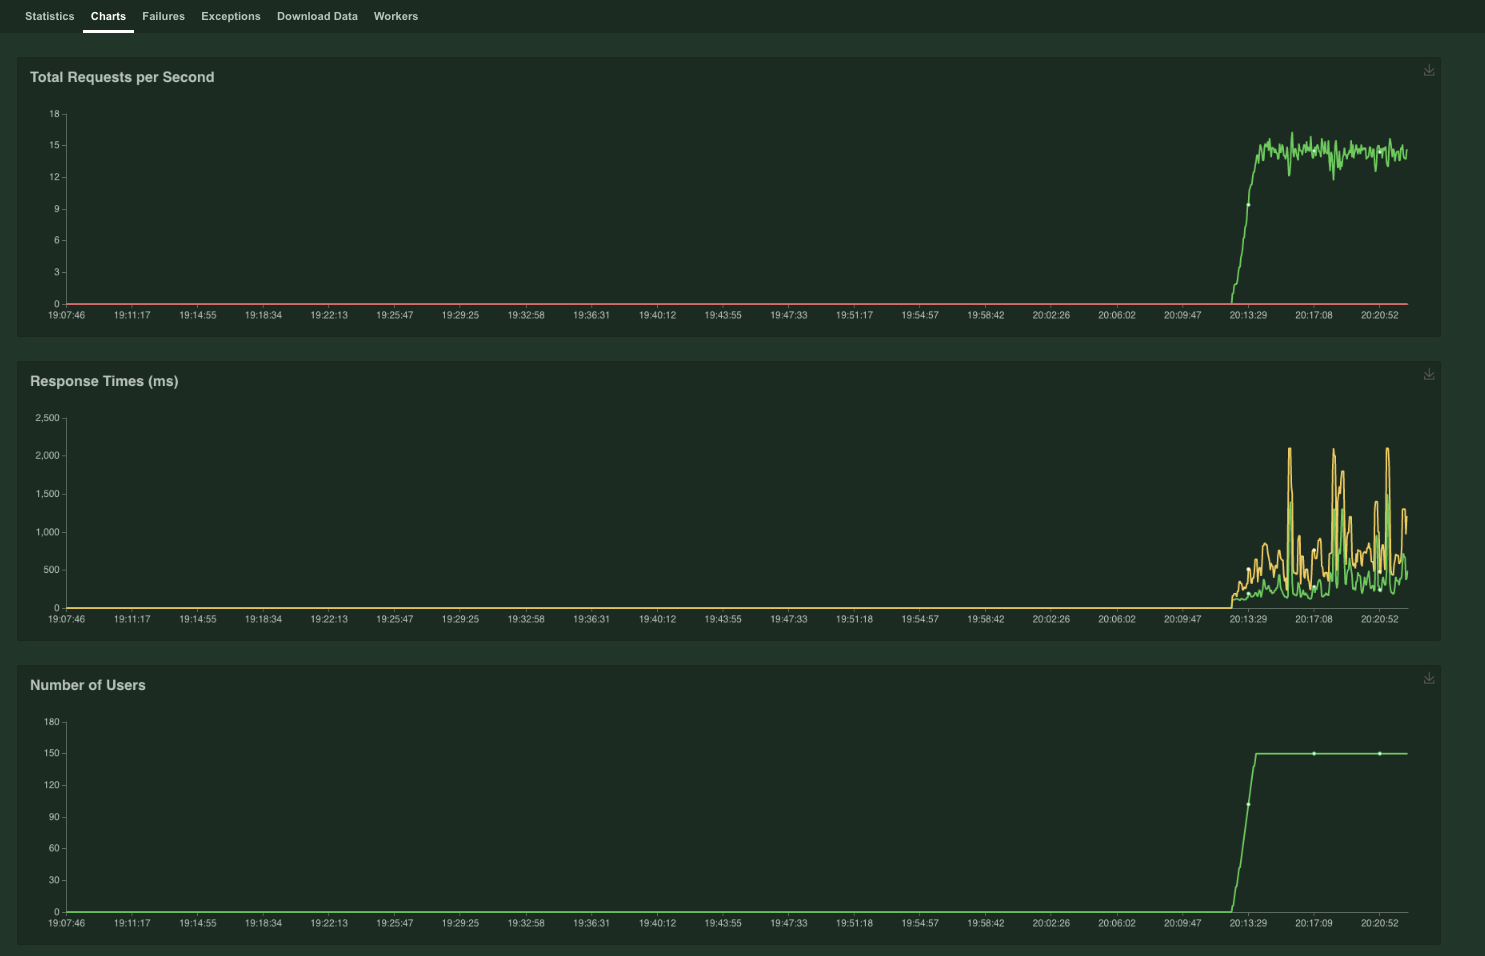
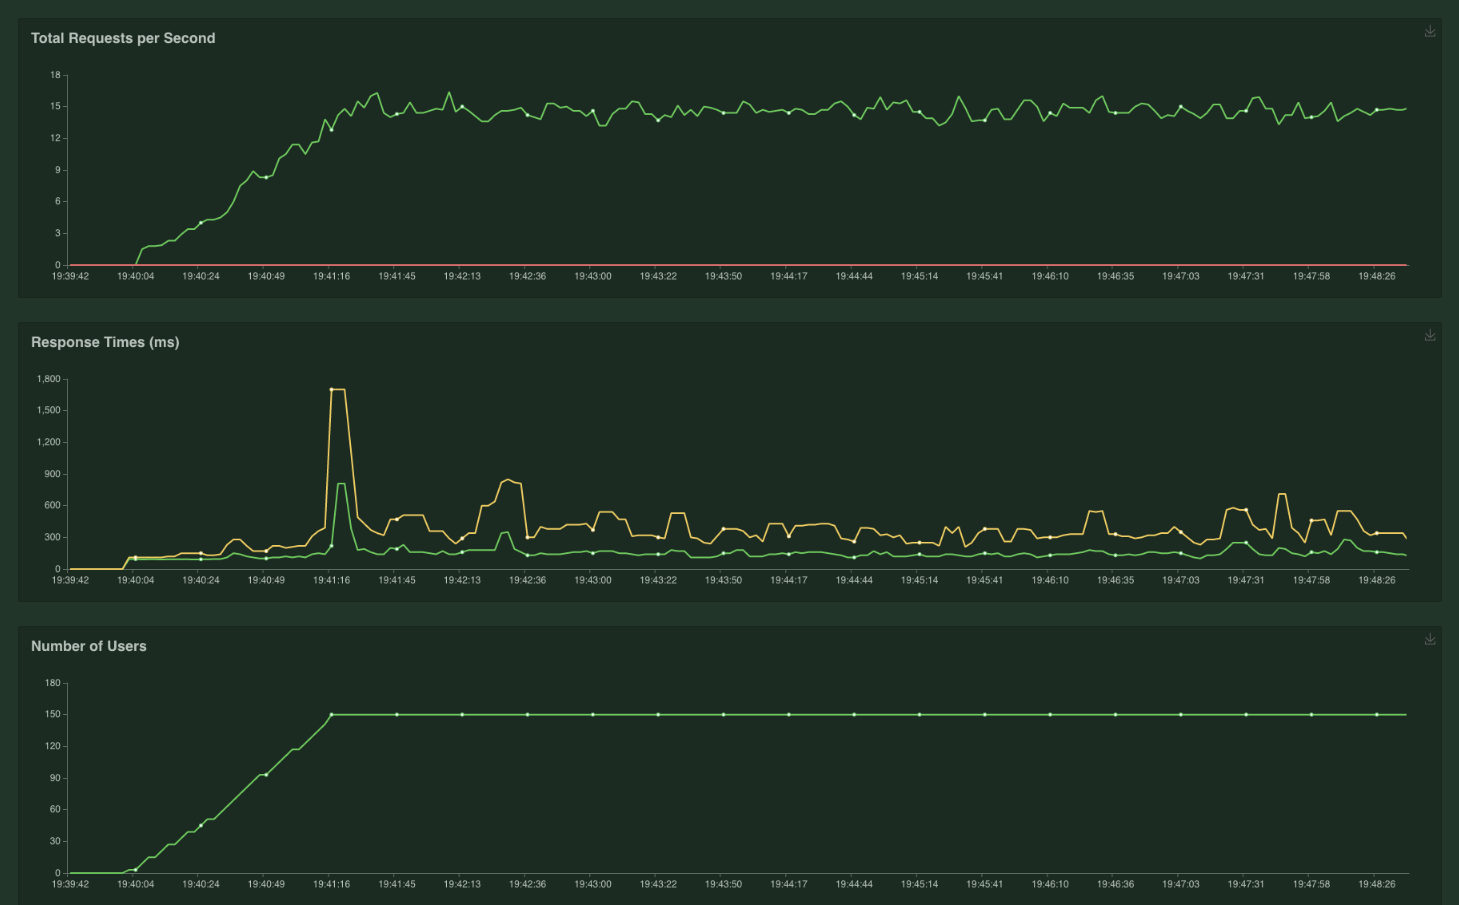
MicroserviceTest | Чтобы были корректные скрины по нагрузке пустой базы

diff --git a/MicroserviceTest/locust/locustfile.py b/MicroserviceTest/locust/locustfile.py
@@ -7,4 +7,4 @@ class QuickstartUser(HttpUser):
     @task
     def index_page(self):
         #self.client.get('/?filter={"title":"заголовок"}&CACHE_ENABLED=1')
-        self.client.get('/?filter={"title":"заголовок"}')
+        self.client.get('/?filter={"title":"заголовок"}', headers={"X-UserID": "123456"})

diff --git a/MicroserviceTest/README.md b/MicroserviceTest/README.md
@@ -8,6 +8,7 @@
 
 - Кол-во пользователей 150
 - Рост кол-ва пользователей 2 в секунду 
+- Запросы происходят с периодичностью от 5-10 секунд
 - Кеш выключен 
 - База данных пустая 
 
